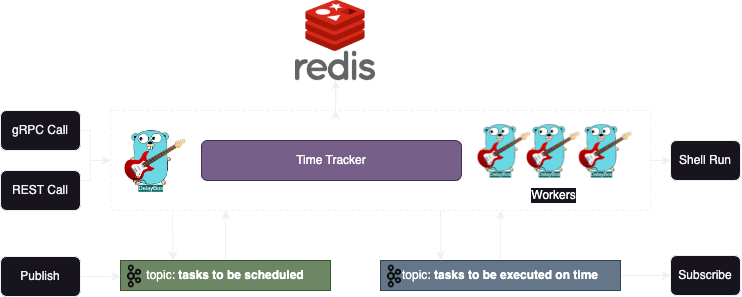
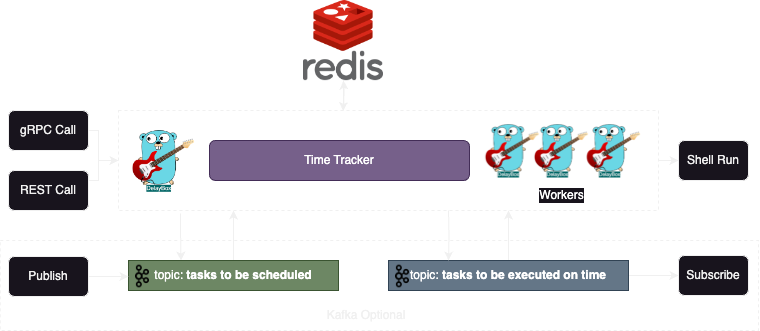
add docker-multi-worker-no-kafka docker example

diff --git a/docker-multi-worker-no-kafka/README.md b/docker-multi-worker-no-kafka/README.md
@@ -3,23 +3,18 @@
 
 This project contains the following components:
 - **Redis**: In-memory data structure store used as a database, cache, and message broker.
-- **Kafka**: Distributed event streaming platform capable of handling trillions of events a day.
-- **Zookeeper**: Centralized service for maintaining configuration information, naming, providing distributed synchronization, and providing group services.
-- **Kafka UI**: Web-based interface to manage and monitor Kafka clusters.
 - **3 Workers**: Task workers responsible for executing scheduled tasks. Each worker can process tasks independently, providing horizontal scalability.
-- **kafka-create-topic**: Ephemeral container to create topics with 3 replicas by calling [create_kafka_topic.sh](create_kafka_topic.sh).
 
 ## Quick Start
 
 Make sure to have Docker Compose installed on your machine, then run the Docker Compose command:
 
 ```shell
-docker-compose up -d
+export COMPOSE_PROJECT_NAME=delay-box
+ docker-compose -p delay-box up -d
 ```
 
 This command builds the latest images and starts the services in detached mode.
-
-- To access Kafka UI, navigate to: [http://localhost:8080/kafka-ui-ts/](http://localhost:8080/kafka-ui-ts/)
 
 Wait until all workers are up and running (you'll see a message in their console: "🚀 scheduler is ready!").
 

diff --git a/README.md b/README.md
@@ -50,7 +50,8 @@ You can try the docker compose example with 3 worker nodes example [docker-compo
 clone the project
 ```shell
 cd docker-multi-worker-no-kafka
-docker-compose -f docker-compose.yml up -d
+export COMPOSE_PROJECT_NAME=delay-box
+docker-compose -p delay-box -f docker-compose.yml up -d
 ```
 Wait until all worker nodes are up and running (you'll see in their console: "🚀 scheduler is ready!"). Then run the following command to create 1000 tasks which designed to execute in 10 second. (tasks just simply print the date in the worker nodes console)
 
